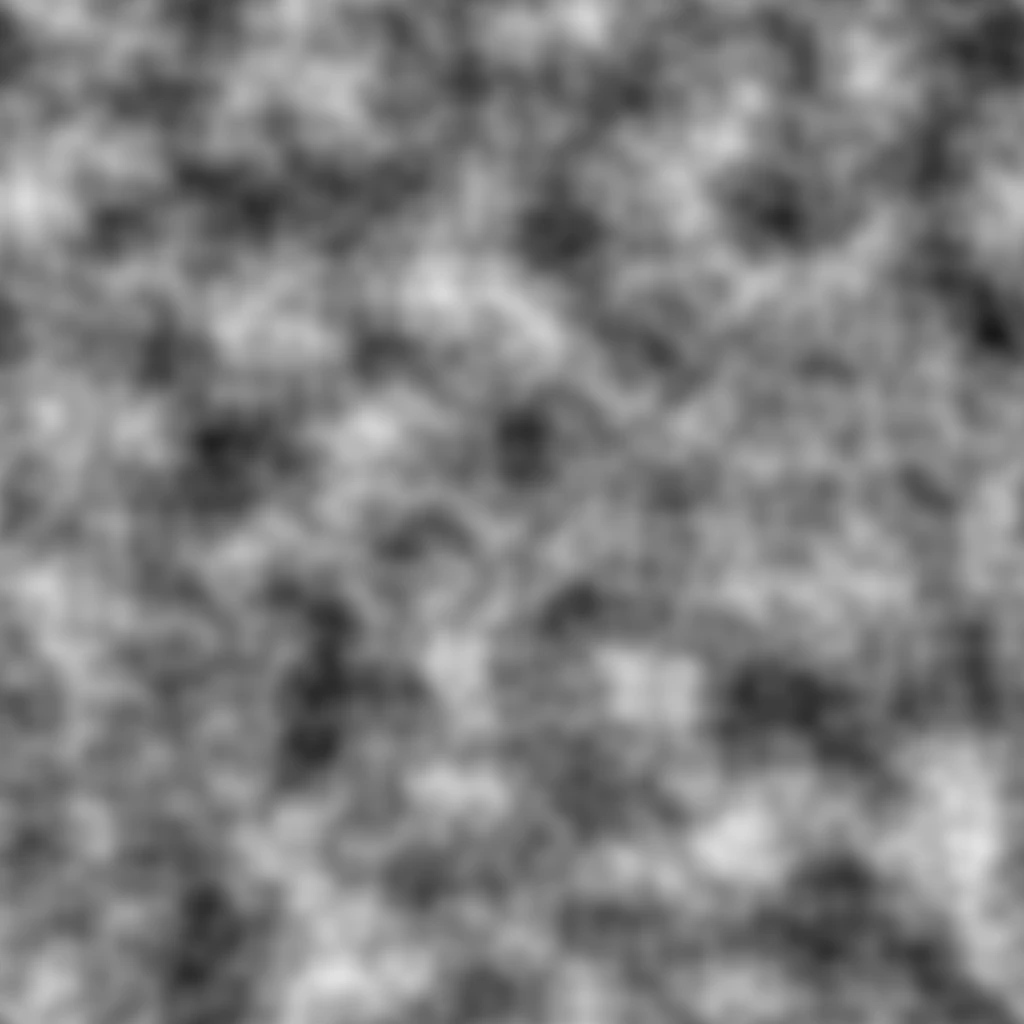
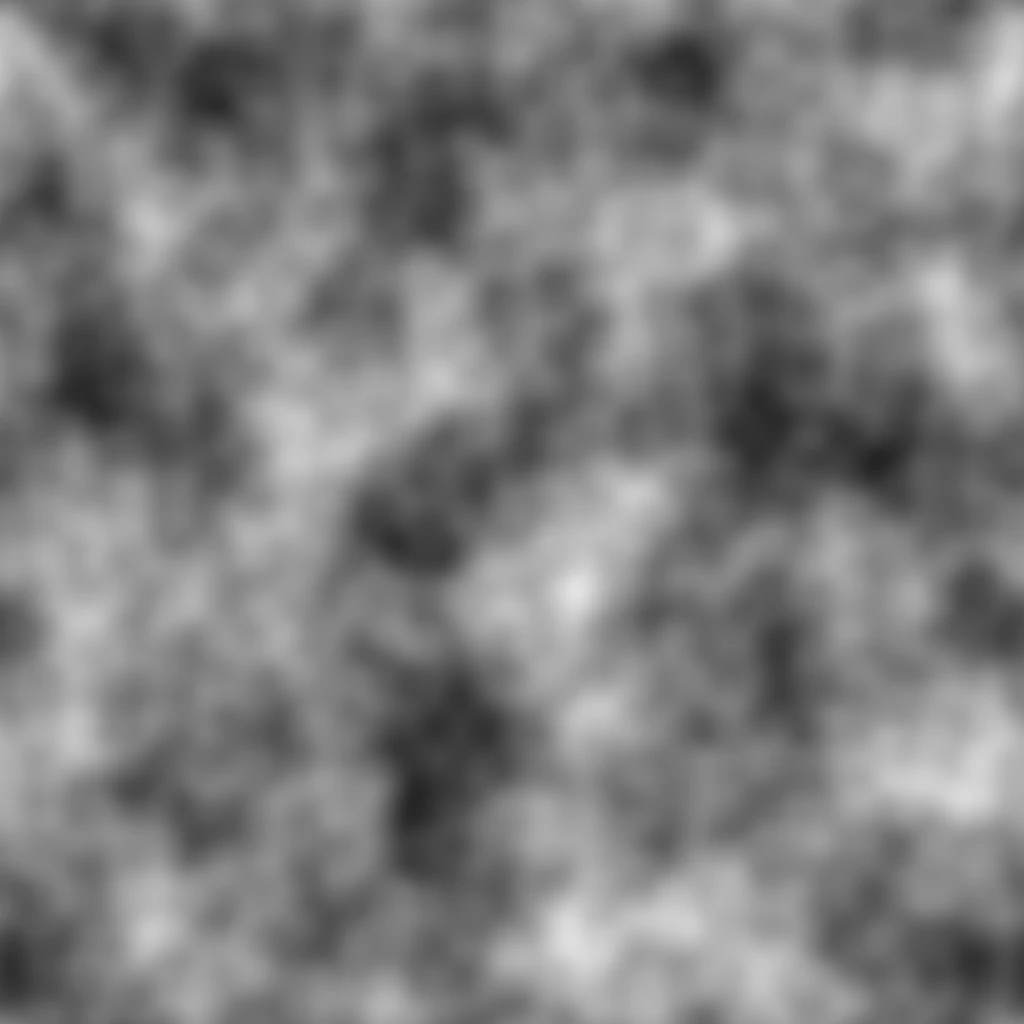
add desolve shader

diff --git a/src/sceneElements/Stars.jsx b/src/sceneElements/Stars.jsx
@@ -3,11 +3,12 @@ import React, { useRef, useMemo } from 'react'
 import { useRender } from 'react-three-fiber'
 import { a } from 'react-spring/three'
 import { GetRandom } from './HelperFuncitons'
+import { easeQuadInOut, easeCircleInOut, easeSinInOut, easeExpInOut, easeQuadIn, easeQuadOut, easePolyInOut, easeBackInOut, easeCubicInOut } from 'd3-ease'
 
 // /** This component rotates a bunch of stars */
-export default function Stars({ position, scrollSpring, imageLoader }) {  
+export default function Stars({ position, scrollSpring, imageLoader }) {
 
-  const vertexShader = `
+  const vertexShader = `  
   precision highp float;
   attribute vec3 position;
   attribute vec3 normal;
@@ -38,7 +39,7 @@ export default function Stars({ position, scrollSpring, imageLoader }) {
     vCameraPosition = cameraPosition;    
   }
   `
-  const fragmentShader = `
+  const fragmentShader = `  
   precision highp float;
   uniform float time;
   uniform float offset;
@@ -52,6 +53,10 @@ export default function Stars({ position, scrollSpring, imageLoader }) {
   varying vec3 vCameraPosition;
   varying vec2 vUv;
 
+  float max4 (vec4 v) {
+    return max (max (v.x, v.y), v.z);
+  }
+
   void main(){  
     // gl_FragColor = vec4(1.,0,0,1.);
     // gl_FragColor = vec4(vWDistance / 100. + time / 20., 0., 0., 0.);
@@ -59,7 +64,9 @@ export default function Stars({ position, scrollSpring, imageLoader }) {
     // gl_FragColor = vec4(-20. + vPosition.x + offset, 0., 0., 0.);
     // gl_FragColor = color;
     // gl_FragColor = vec4(vUv.x, 0., 0., 0.);
-    gl_FragColor = texture2D(texture, vUv);
+    vec4 texColor = texture2D(texture, vUv);
+    float c = step(0.25 + offset, texColor.r);
+    gl_FragColor = vec4(1., 0., 0., c);
   }
   `
 
@@ -70,23 +77,32 @@ export default function Stars({ position, scrollSpring, imageLoader }) {
   let group = useRef()
   let theta = 0
   useRender(() => {
-    const r = 0.5 * Math.sin(THREE.Math.degToRad((theta += 0.01)))
-    const s = Math.cos(THREE.Math.degToRad(theta * 2))
-    // group.current.rotation.set(r, r, r)
-    // group.current.scale.set(s, s, s)
-
     mat.uniforms.time.value = theta += 0.1;
-    mat.uniforms.offset.value = scrollSpring.getValue();
-    if (theta > 40) {
+    if (theta > 200) {
       theta = 0;
     }
+    let smoothTheta = theta <= 100 ? (theta) : (200 - theta);
+    smoothTheta = easePolyInOut(smoothTheta * 0.01, 4.0);
+    // mat.uniforms.offset.value = scrollSpring.getValue() / 60;
+
+    console.log(smoothTheta);
+
+    const r = 0.5 * Math.sin(THREE.Math.degToRad((smoothTheta * 100)))
+    const s = Math.cos(THREE.Math.degToRad(theta * 2))
+    group.current.rotation.set(r, r, r)
+    // group.current.scale.set(s, s, s)
+
+    mat.uniforms.offset.value = smoothTheta * 0.5;
   })
   const [geo, mat, coords] = useMemo(() => {
-    const geo = new THREE.SphereBufferGeometry(20, 10, 10)
+    // const geo = new THREE.SphereBufferGeometry(20, 30, 30)
 
-    // const geo = new THREE.BoxBufferGeometry(10, 10, 10);
-    // const geo = new THREE.IcosahedronBufferGeometry(20, 1);
-    //  new THREE.BoxBufferGeometry(10, 10, 10);
+    const geo = new THREE.BoxBufferGeometry(40, 40, 40);
+    // const geo = new THREE.IcosahedronBufferGeometry(30, 3);
+    // const geo = new THREE.TorusKnotGeometry(60, 2, 200, 11, 13, 5);
+    // const geo = new THREE.TextBufferGeometry("Invisible Thread", { size: 20, font: new THREE.Font() } )
+
+    // new THREE.BoxBufferGeometry(10, 10, 10);
 
 
     // const mat = new THREE.MeshBasicMaterial({ color: new THREE.Color('black'), transparent: true, wireframe: true, opacity: 1 })
@@ -97,23 +113,25 @@ export default function Stars({ position, scrollSpring, imageLoader }) {
         time: { value: 0 },
         speed: { value: 1 },
         offset: { value: 0 },
-        color: { value: new THREE.Color(0x455b69) },        
+        color: { value: new THREE.Color(0x455b69) },
         texture: { type: "t", value: imageLoader.textures[0][1] }
       },
       vertexShader,
       fragmentShader,
-      wireframe: false,
-      side: THREE.DoubleSide
-    })    
-    
+      wireframe: true,
+      side: THREE.DoubleSide,
+      transparent: true,      
+    })
 
-    // const coords = new Array(100).fill().map(i => [Math.random() * 800 - 400, Math.random() * 800 - 400, Math.random() * 800 - 400])
+
+    // const coords = new Array(10).fill().map(i => [Math.random() * 800 - 400, Math.random() * 800 - 400, Math.random() * 800 - 400])
+    // const coords = new Array(10).fill().map(i => [Math.random() * 80 - 40, Math.random() * 80 - 40, Math.random() * 80 - 40])
     const coords = new Array(1).fill().map(i => [0, 0, 0])
 
     return [geo, mat, coords]
   }, [])
   return (
-    <a.group ref={group} position={position}>
+    <a.group ref={group} position={position} >
       {coords.map(([p1, p2, p3], i) => (
         <mesh key={i} geometry={geo} material={mat} position={[p1, p2, p3]} />
       ))}

diff --git a/src/data.js b/src/data.js
@@ -1,3 +1,4 @@
+import noise from './images/noise.webp'
 import img1 from './images/resizes/accelerate2.webp'
 import img2 from './images/resizes/bloody1.jpg'
 import img3 from './images/resizes/crop-1.jpg'
@@ -14,6 +15,7 @@ import img13 from './images/resizes/abstract_2.jpg'
 import img14 from './images/resizes/abstract_3.jpg'
 
 export default [
+  noise,
   img1,
   img4,
   img2,
